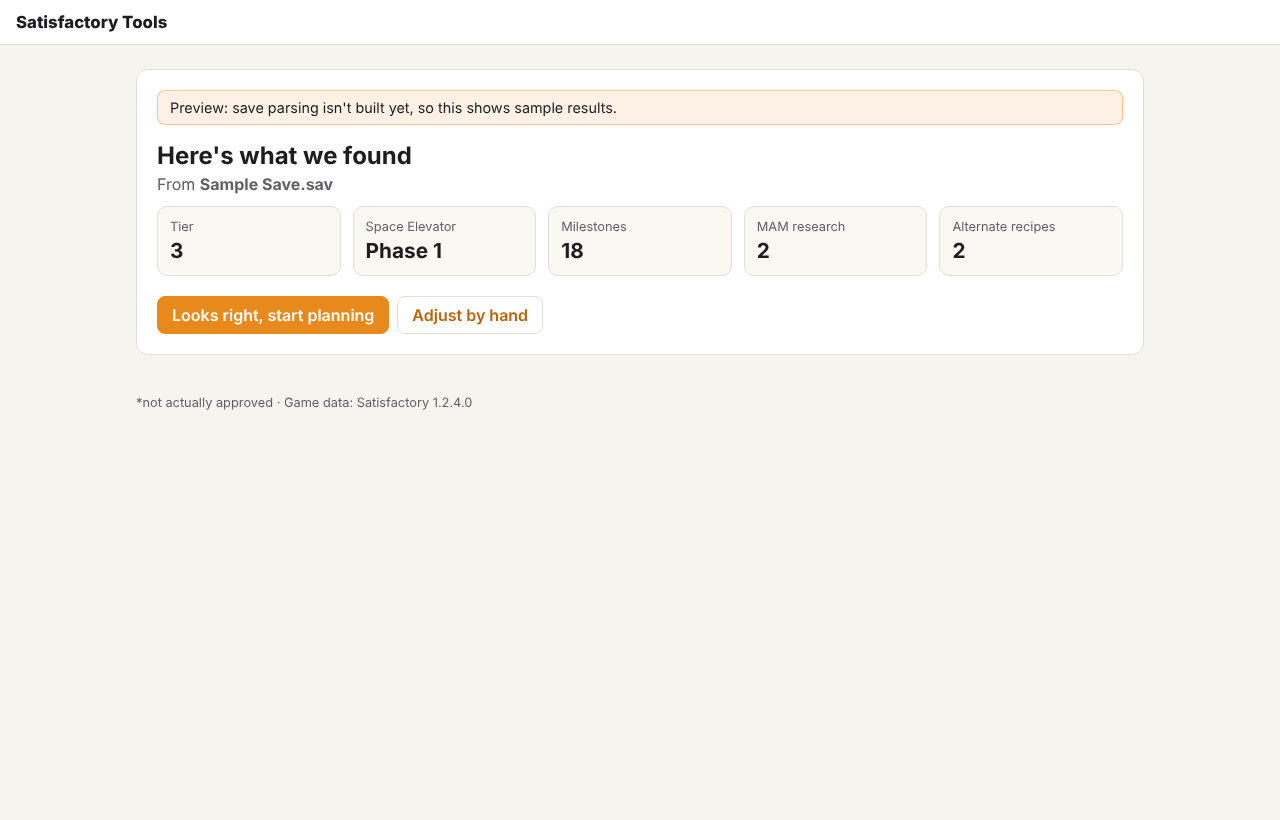
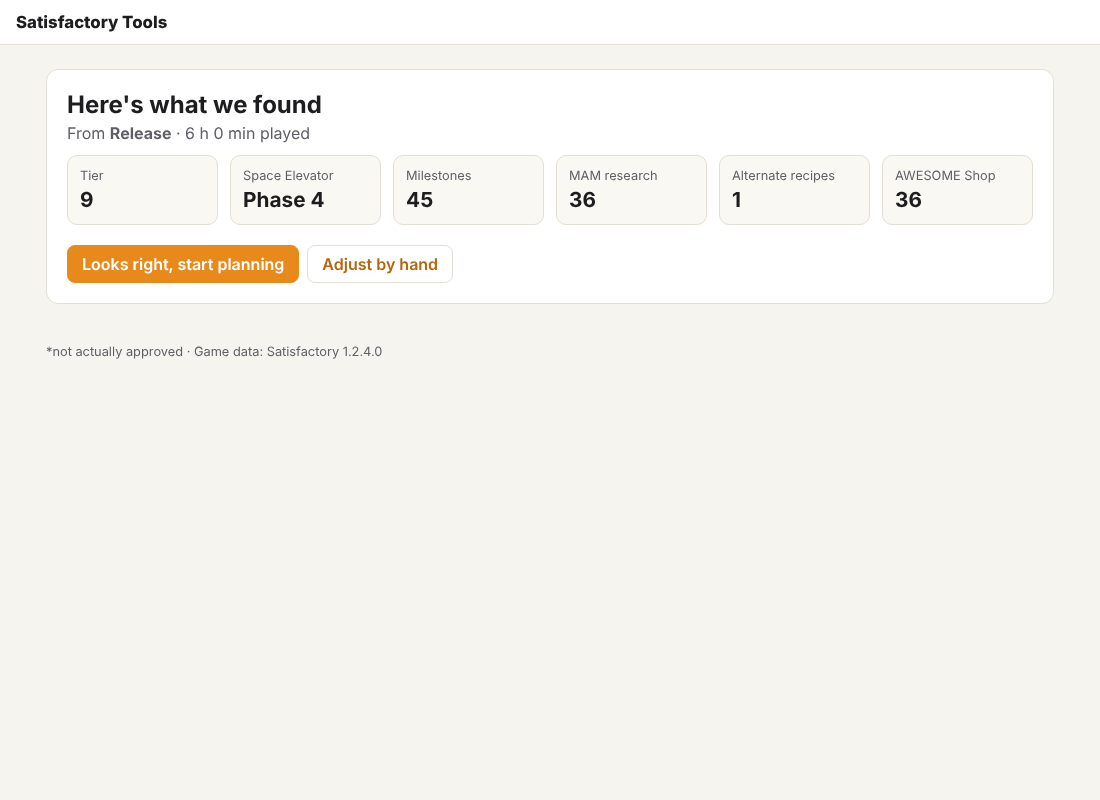
Read game state from an uploaded save
Parse .sav files in a Web Worker with @etothepii/satisfactory-file-parser
(MIT) and fill purchased schematics and the Space Elevator phase, replacing
the mocked upload result. Unknown (modded) unlocks are skipped and counted.

Claude-Session: https://claude.ai/code/session_013jvHT1zRCqjmkbXckh6i2U

diff --git a/src/screens/Upload.tsx b/src/screens/Upload.tsx
@@ -1,12 +1,89 @@
 import { useState } from 'react'
 import { schematicsById, type Schematic } from '../data'
 import { go } from '../router'
+import { gameStateFromSave, parseSave, type SaveImport, type SaveSummary } from '../save/parseSave'
 import { currentTier, emptyGameState, throughTier, useGameState, type GameState } from '../state/gameState'
 
-// Save parsing isn't built yet: this screen shows the intended flow with a
-// fixed sample result, so the next step can be designed against it.
-function mockParse(fileName: string): GameState {
-  const base = throughTier({ ...emptyGameState('save'), saveName: fileName, spaceElevatorPhase: 1 }, 3)
+type Status =
+  | { step: 'pick' }
+  | { step: 'reading'; fileName: string; progress: number }
+  | { step: 'failed'; fileName: string; message: string }
+  | { step: 'done'; result: SaveImport; summary: SaveSummary }
+
+export function Upload() {
+  const [, setState] = useGameState()
+  const [status, setStatus] = useState<Status>({ step: 'pick' })
+  const [dragging, setDragging] = useState(false)
+
+  const accept = (file: File | undefined) => {
+    if (!file) return
+    setStatus({ step: 'reading', fileName: file.name, progress: 0 })
+    parseSave(file, (progress) => setStatus({ step: 'reading', fileName: file.name, progress }))
+      .then((summary) => setStatus({ step: 'done', result: gameStateFromSave(summary, file.name), summary }))
+      .catch((err: Error) => setStatus({ step: 'failed', fileName: file.name, message: err.message }))
+  }
+
+  if (status.step === 'reading') {
+    return (
+      <section className="panel">
+        <h2>Reading {status.fileName}</h2>
+        <progress className="save-progress" value={status.progress} max={1} />
+        <p className="muted">Big saves take a few seconds. Everything stays on your device.</p>
+      </section>
+    )
+  }
+
+  if (status.step === 'done') {
+    return (
+      <UploadResult
+        parsed={status.result.state}
+        summary={status.summary}
+        unknown={status.result.unknown}
+        onUse={(s, next) => (setState(s), go(next))}
+      />
+    )
+  }
+
+  return (
+    <section className="panel">
+      <h2>Upload a save</h2>
+      <p className="muted">
+        On Windows, saves live in <code>%LOCALAPPDATA%\FactoryGame\Saved\SaveGames\</code>. The file is read in your
+        browser and never uploaded anywhere.
+      </p>
+      {status.step === 'failed' && (
+        <p className="notice error" role="alert">
+          Couldn't read <strong>{status.fileName}</strong>. Pick a save from Update 8 or 1.x; older saves and other
+          files can't be read. <span className="muted">({status.message})</span>
+        </p>
+      )}
+      <label
+        className={`dropzone${dragging ? ' dragging' : ''}`}
+        onDragOver={(e) => {
+          e.preventDefault()
+          setDragging(true)
+        }}
+        onDragLeave={() => setDragging(false)}
+        onDrop={(e) => {
+          e.preventDefault()
+          setDragging(false)
+          accept(e.dataTransfer.files[0])
+        }}
+      >
+        <input type="file" accept=".sav" hidden onChange={(e) => accept(e.target.files?.[0])} />
+        <strong>Drop your .sav file here</strong>
+        <span className="muted">or click to choose one</span>
+      </label>
+      <button type="button" className="link" onClick={() => go('/sample-save')}>
+        No save handy? Try a sample
+      </button>
+    </section>
+  )
+}
+
+// A fixed mid-game state for trying the app without a save.
+function sampleState(): GameState {
+  const base = throughTier({ ...emptyGameState('save'), saveName: 'Sample Save.sav', spaceElevatorPhase: 1 }, 3)
   return {
     ...base,
     purchased: [
@@ -20,66 +97,42 @@ function mockParse(fileName: string): GameState {
   }
 }
 
-export function Upload() {
-  const [, setState] = useGameState()
-  const [parsed, setParsed] = useState<GameState | null>(null)
-  const [dragging, setDragging] = useState(false)
-
-  const accept = (file: File | undefined) => file && setParsed(mockParse(file.name))
-
-  if (!parsed) {
-    return (
-      <section className="panel">
-        <h2>Upload a save</h2>
-        <p className="muted">
-          On Windows, saves live in <code>%LOCALAPPDATA%\FactoryGame\Saved\SaveGames\</code>.
-        </p>
-        <label
-          className={`dropzone${dragging ? ' dragging' : ''}`}
-          onDragOver={(e) => {
-            e.preventDefault()
-            setDragging(true)
-          }}
-          onDragLeave={() => setDragging(false)}
-          onDrop={(e) => {
-            e.preventDefault()
-            setDragging(false)
-            accept(e.dataTransfer.files[0])
-          }}
-        >
-          <input type="file" accept=".sav" hidden onChange={(e) => accept(e.target.files?.[0])} />
-          <strong>Drop your .sav file here</strong>
-          <span className="muted">or click to choose one</span>
-        </label>
-        <button type="button" className="link" onClick={() => go('/sample-save')}>
-          No save handy? Try a sample
-        </button>
-      </section>
-    )
-  }
-
-  return <UploadResult parsed={parsed} onUse={(s, next) => (setState(s), go(next))} />
-}
-
 export function SampleSave() {
   const [, setState] = useGameState()
-  return <UploadResult parsed={mockParse('Sample Save.sav')} onUse={(s, next) => (setState(s), go(next))} />
+  return <UploadResult parsed={sampleState()} onUse={(s, next) => (setState(s), go(next))} />
 }
 
-function UploadResult({ parsed, onUse }: { parsed: GameState; onUse: (s: GameState, next: string) => void }) {
+const playTime = (seconds: number) => {
+  const h = Math.floor(seconds / 3600)
+  const m = Math.floor((seconds % 3600) / 60)
+  return h ? `${h} h ${m} min` : `${m} min`
+}
+
+function UploadResult({
+  parsed,
+  summary,
+  unknown = [],
+  onUse,
+}: {
+  parsed: GameState
+  summary?: SaveSummary
+  unknown?: string[]
+  onUse: (s: GameState, next: string) => void
+}) {
   const count = (...types: Schematic['type'][]) =>
     parsed.purchased.filter((id) => types.includes(schematicsById.get(id)?.type as Schematic['type'])).length
   return (
     <section className="panel">
-      <p className="notice">Preview: save parsing isn't built yet, so this shows sample results.</p>
+      {!summary && <p className="notice">This is a made-up sample game, so you can look around without a save.</p>}
       <h2>Here's what we found</h2>
       <p className="muted">
-        From <strong>{parsed.saveName}</strong>
+        From <strong>{summary?.sessionName || parsed.saveName}</strong>
+        {summary && <> · {playTime(summary.playSeconds)} played</>}
       </p>
       <dl className="facts">
         <div>
           <dt>Tier</dt>
-          <dd>{currentTier(parsed)}</dd>
+          <dd>{Math.max(currentTier(parsed), 0)}</dd>
         </div>
         <div>
           <dt>Space Elevator</dt>
@@ -97,7 +150,17 @@ function UploadResult({ parsed, onUse }: { parsed: GameState; onUse: (s: GameSta
           <dt>Alternate recipes</dt>
           <dd>{count('alternate')}</dd>
         </div>
+        <div>
+          <dt>AWESOME Shop</dt>
+          <dd>{count('awesome-shop')}</dd>
+        </div>
       </dl>
+      {unknown.length > 0 && (
+        <p className="muted">
+          Skipped {unknown.length} unlock{unknown.length === 1 ? '' : 's'} we don't know
+          {summary?.isModded ? ', probably from mods' : ''}.
+        </p>
+      )}
       <div className="row">
         <button type="button" onClick={() => onUse(parsed, '/plan')}>
           Looks right, start planning

diff --git a/src/save/readSave.ts b/src/save/readSave.ts
@@ -1,0 +1,45 @@
+// Pulls the unlock progress out of a Satisfactory save. Runs inside the save
+// worker; the parsing itself is done by @etothepii/satisfactory-file-parser.
+import { Parser, type SaveComponent, type SaveEntity } from '@etothepii/satisfactory-file-parser'
+
+/** What we read from a save, before matching it against our game data. */
+export interface SaveSummary {
+  sessionName: string
+  playSeconds: number
+  saveVersion: number
+  buildVersion: number
+  isModded: boolean
+  /** Class names of every bought milestone, research, alternate and shop schematic (e.g. "Schematic_1-1_C"). */
+  purchased: string[]
+  /** Space Elevator phases delivered (0-5). */
+  spaceElevatorPhase: number
+}
+
+type ObjectRef = { pathName: string }
+
+/** "/Game/.../Schematic_1-1.Schematic_1-1_C" → "Schematic_1-1_C" */
+const className = (ref: ObjectRef) => ref.pathName.slice(ref.pathName.lastIndexOf('.') + 1)
+
+export function readSave(name: string, file: ArrayBuffer, onProgress?: (progress: number) => void): SaveSummary {
+  const save = Parser.ParseSave(name, file, { onProgressCallback: (p) => onProgress?.(p) })
+  const objects: (SaveEntity | SaveComponent)[] = Object.values(save.levels).flatMap((l) => l.objects)
+  const find = (type: string) => objects.find((o) => o.typePath.endsWith(type))
+
+  const schematics = find('.BP_SchematicManager_C')
+  if (!schematics) throw new Error('This save has no schematic manager, so it may not be a Satisfactory game save.')
+  const purchased = (schematics.properties.mPurchasedSchematics as { values?: ObjectRef[] } | undefined)?.values ?? []
+
+  // The game phase is "GP_Project_Assembly_Phase_N" once N phases are delivered.
+  const phase = (find('.BP_GamePhaseManager_C')?.properties.mCurrentGamePhase as { value?: ObjectRef } | undefined)?.value
+  const phaseNumber = Number(phase?.pathName.match(/Phase_(\d+)$/)?.[1] ?? 0)
+
+  return {
+    sessionName: save.header.sessionName,
+    playSeconds: save.header.playDurationSeconds,
+    saveVersion: save.header.saveVersion,
+    buildVersion: save.header.buildVersion,
+    isModded: Boolean(save.header.isModdedSave),
+    purchased: [...new Set(purchased.map(className))],
+    spaceElevatorPhase: Math.min(Math.max(phaseNumber, 0), 5),
+  }
+}

diff --git a/src/save/parseSave.ts b/src/save/parseSave.ts
@@ -1,0 +1,47 @@
+// Main-thread side of save reading: runs the worker and turns its summary into a game state.
+import { schematicsById } from '../data'
+import { emptyGameState, type GameState } from '../state/gameState'
+import type { SaveSummary } from './readSave'
+import type { SaveWorkerRequest, SaveWorkerResponse } from './save.worker'
+
+export type { SaveSummary }
+
+/** Parses a .sav in a Web Worker. `onProgress` gets 0..1. */
+export function parseSave(file: File, onProgress?: (progress: number) => void): Promise<SaveSummary> {
+  return new Promise((resolve, reject) => {
+    const worker = new Worker(new URL('./save.worker.ts', import.meta.url), { type: 'module' })
+    const finish = () => worker.terminate()
+    worker.onmessage = (e: MessageEvent<SaveWorkerResponse>) => {
+      const msg = e.data
+      if (msg.type === 'progress') return onProgress?.(msg.progress)
+      finish()
+      if (msg.type === 'done') resolve(msg.summary)
+      else reject(new Error(msg.message))
+    }
+    worker.onerror = (e) => (finish(), reject(new Error(e.message || 'The save reader stopped unexpectedly.')))
+    file.arrayBuffer().then(
+      (buffer) => worker.postMessage({ name: file.name, file: buffer } satisfies SaveWorkerRequest, [buffer]),
+      (err) => (finish(), reject(err)),
+    )
+  })
+}
+
+export interface SaveImport {
+  state: GameState
+  /** Purchased schematics our data doesn't know, usually from mods. */
+  unknown: string[]
+}
+
+/** Keep the schematics our game data knows; the rest (mods, removed content) is reported back. */
+export function gameStateFromSave(summary: SaveSummary, fileName: string): SaveImport {
+  const known = summary.purchased.filter((id) => schematicsById.has(id))
+  return {
+    state: {
+      ...emptyGameState('save'),
+      saveName: fileName,
+      purchased: known,
+      spaceElevatorPhase: summary.spaceElevatorPhase,
+    },
+    unknown: summary.purchased.filter((id) => !schematicsById.has(id)),
+  }
+}

diff --git a/src/index.css b/src/index.css
@@ -66,6 +66,8 @@ button.link { background: none; border: 0; padding: 0; color: var(--accent-ink);
 .badge { justify-self: start; display: inline-block; font-size: .72rem; padding: 3px 9px; border-radius: 999px; background: color-mix(in srgb, var(--accent) 18%, transparent); color: var(--accent-ink); font-weight: 600; }
 .muted-badge { background: var(--surface-2); color: var(--muted); border: 1px solid var(--border); }
 .notice { background: color-mix(in srgb, var(--accent) 12%, var(--surface)); border: 1px solid color-mix(in srgb, var(--accent) 40%, transparent); border-radius: 8px; padding: 8px 12px; margin: 0 0 16px; font-size: .9rem; }
+.notice.error { background: color-mix(in srgb, var(--danger) 10%, var(--surface)); border-color: color-mix(in srgb, var(--danger) 45%, transparent); }
+.save-progress { width: 100%; height: 10px; accent-color: var(--accent); margin: 8px 0 12px; }
 .spoiler-note { grid-column: 1 / -1; color: var(--muted); font-size: .9rem; margin: 8px 0 0; padding: 10px 12px; border: 1px dashed var(--border); border-radius: 8px; }
 
 /* Welcome */

diff --git a/src/save/save.worker.ts b/src/save/save.worker.ts
@@ -1,0 +1,24 @@
+// Parses a save off the main thread: large saves take seconds and hundreds of MB.
+import { readSave, type SaveSummary } from './readSave'
+
+export type SaveWorkerRequest = { name: string; file: ArrayBuffer }
+export type SaveWorkerResponse =
+  | { type: 'progress'; progress: number }
+  | { type: 'done'; summary: SaveSummary }
+  | { type: 'error'; message: string }
+
+const post = (msg: SaveWorkerResponse) => self.postMessage(msg)
+
+self.onmessage = (e: MessageEvent<SaveWorkerRequest>) => {
+  try {
+    let last = -1
+    const summary = readSave(e.data.name, e.data.file, (progress) => {
+      // The parser reports very often; pass on whole percents only.
+      const pct = Math.floor(progress * 100)
+      if (pct > last) post({ type: 'progress', progress: (last = pct) / 100 })
+    })
+    post({ type: 'done', summary })
+  } catch (err) {
+    post({ type: 'error', message: err instanceof Error ? err.message : String(err) })
+  }
+}

diff --git a/docs/README.md b/docs/README.md
@@ -23,7 +23,7 @@ Icons for items, buildings, resources and power appear throughout. ([#8](https:/
 
 ## Architecture
 
-- **Static web app, no backend.** Everything runs in the browser, which keeps hosting free and the app usable on mobile. Save parsing will also run client-side.
+- **Static web app, no backend.** Everything runs in the browser, which keeps hosting free and the app usable on mobile. Saves are parsed client-side too, in a Web Worker.
 - **Vite + React + TypeScript.** Plain CSS with color variables, light and dark mode following the device, mobile-first.
 - **Routing:** hash routes (`#/setup`, `#/plan`, `#/outposts/:id`), because GitHub Pages can't serve fallback routes for a single-page app.
 - **State:** kept in `localStorage` through `usePersistentState` (`src/storage/persisted.ts`), with export and import to a JSON backup file. ([#5](https://github.com/Oodapow/satisfactory-tools/issues/5))
@@ -33,6 +33,7 @@ Icons for items, buildings, resources and power appear throughout. ([#8](https:/
 | --- | --- |
 | `src/data/game/` | Generated game data and typed helpers (see below). |
 | `src/storage/` | Browser persistence. |
+| `src/save/` | Reads a `.sav` in a Web Worker with [@etothepii/satisfactory-file-parser](https://github.com/etothepii4/satisfactory-file-parser) (MIT). |
 | `scripts/generate-game-data.mjs` | Builds `src/data/game/` from `data/`. |
 | `data/` | Raw game file and hand-written supplements. |
 | `.github/workflows/` | CI and deploy. |
@@ -77,7 +78,7 @@ npm run lint
 | [#6](https://github.com/Oodapow/satisfactory-tools/issues/6) | Game data for 1.2 | done in #2 |
 | [#7](https://github.com/Oodapow/satisfactory-tools/issues/7) | User journey: game state, spoiler-free planning, outposts | done in [#3](https://github.com/Oodapow/satisfactory-tools/pull/3) |
 | [#8](https://github.com/Oodapow/satisfactory-tools/issues/8) | Game icons | done in [#17](https://github.com/Oodapow/satisfactory-tools/pull/17) |
-| [#9](https://github.com/Oodapow/satisfactory-tools/issues/9) | Read game state from a save file | planned |
+| [#9](https://github.com/Oodapow/satisfactory-tools/issues/9) | Read game state from a save file | in review |
 | [#10](https://github.com/Oodapow/satisfactory-tools/issues/10) | MAM research tree order | planned |
 | [#11](https://github.com/Oodapow/satisfactory-tools/issues/11) | Declarative outpost planning with imports and exports | done in [#3](https://github.com/Oodapow/satisfactory-tools/pull/3) and [#18](https://github.com/Oodapow/satisfactory-tools/pull/18) |
 | [#12](https://github.com/Oodapow/satisfactory-tools/issues/12) | Node editor: outpost network and factory floor | done in [#18](https://github.com/Oodapow/satisfactory-tools/pull/18) |

diff --git a/docs/user-journey.md b/docs/user-journey.md
@@ -5,7 +5,7 @@ What the site does today, how the pieces fit, and where to extend them. Screensh
 ## The flow
 
 1. **Welcome** (`#/`): upload a save or set up by hand. Returning players get "Continue planning".
-2. **Upload** (`#/upload`): drop a `.sav` file. Parsing isn't built yet, so the result screen shows a sample game state and says so (`src/screens/Upload.tsx`, `mockParse`).
+2. **Upload** (`#/upload`): drop a `.sav` file. It is parsed in the browser (`src/save/`) and the result screen shows what was read: tier, Space Elevator phase, milestones, MAM research, alternates and AWESOME Shop unlocks, plus how many unknown (usually modded) unlocks were skipped. "Try a sample" shows a made-up mid-game state instead.
 3. **Game state** (`#/setup`): pick a tier to tick every milestone up to it, set the Space Elevator phase, then fine-tune milestones, MAM research and alternates. Spoiler rules:
    - only tiers the HUB would show are listed (tutorial done, Space Elevator phase reached);
    - MAM trees stay folded until the player has researched something in them or opens them, since the game data doesn't order nodes within a tree; seasonal research is hidden;
@@ -51,4 +51,3 @@ Simplifications: machines run at 100% (fractional counts are shown so one can be
 
 - Layout proposal per outpost: floors by production type, manifolds, best unlocked belts, generated from `OutpostSolution` (tracked as an issue).
 - Node editor: macro view of outposts and their transport links, micro view of machines, built on the plan model.
-- Real save parsing to fill the game state.
